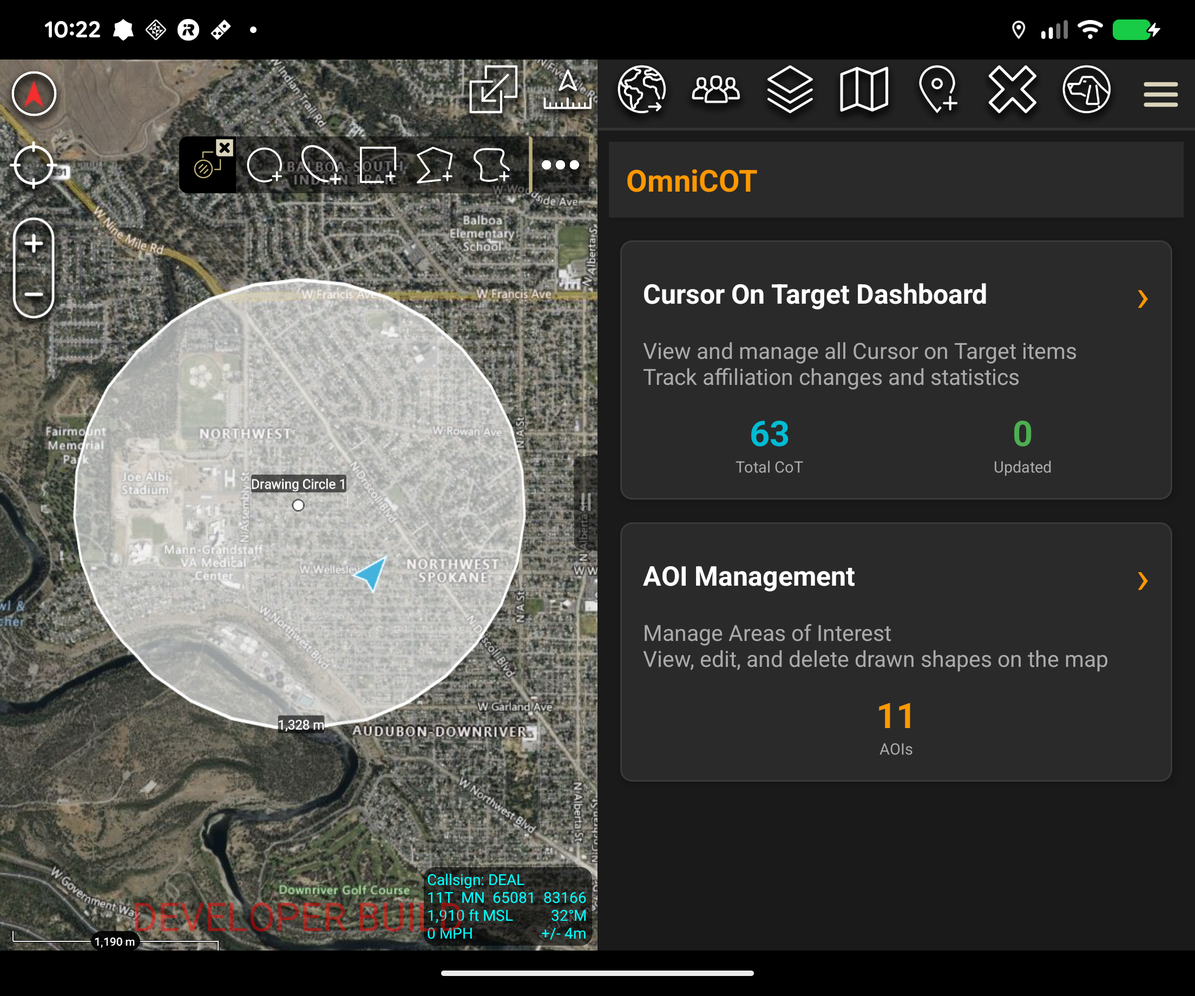
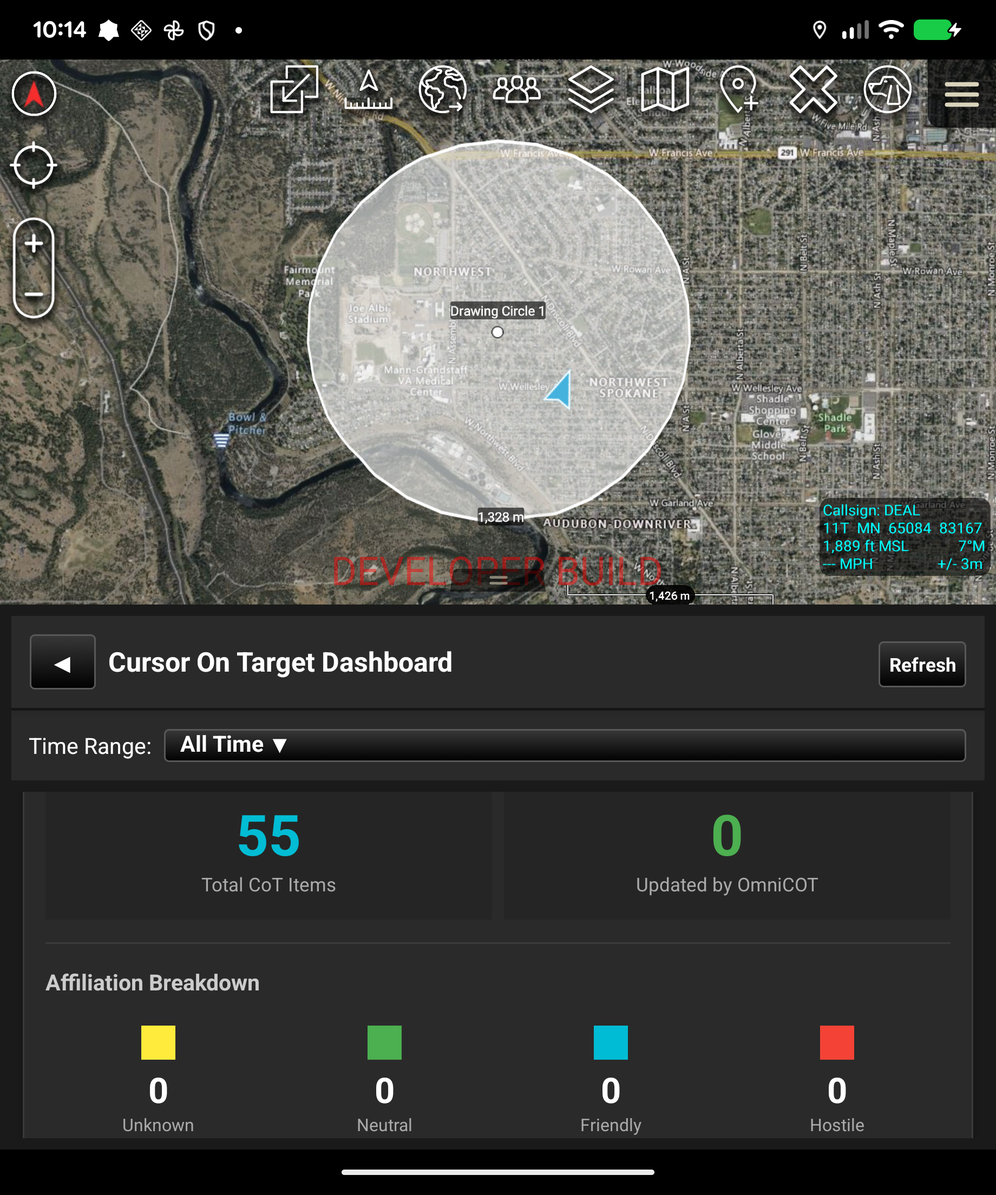
Update CoT Statistics screenshot from device

diff --git a/README.md b/README.md
@@ -59,7 +59,7 @@ A comprehensive ATAK plugin for managing Cursor on Target (CoT) items and Areas 
 <table>
   <tr>
     <td><img src="screenshots/main_dashboard.png?v=2" alt="Main Dashboard" width="250"/></td>
-    <td><img src="screenshots/cot_dashboard.png" alt="CoT Dashboard" width="250"/></td>
+    <td><img src="screenshots/cot_dashboard.png?v=2" alt="CoT Dashboard" width="250"/></td>
     <td><img src="screenshots/aoi_management.png" alt="AOI Management" width="250"/></td>
   </tr>
   <tr>
